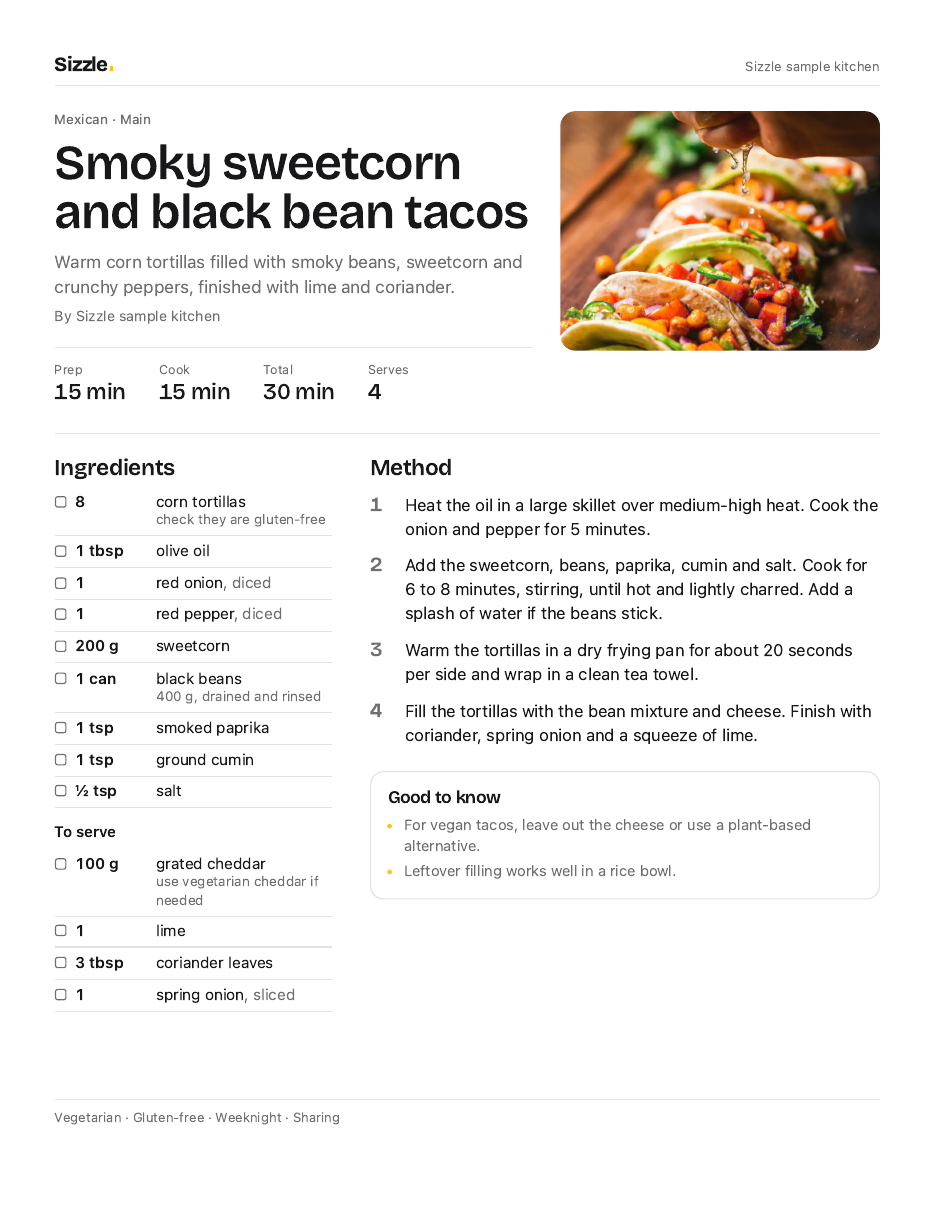
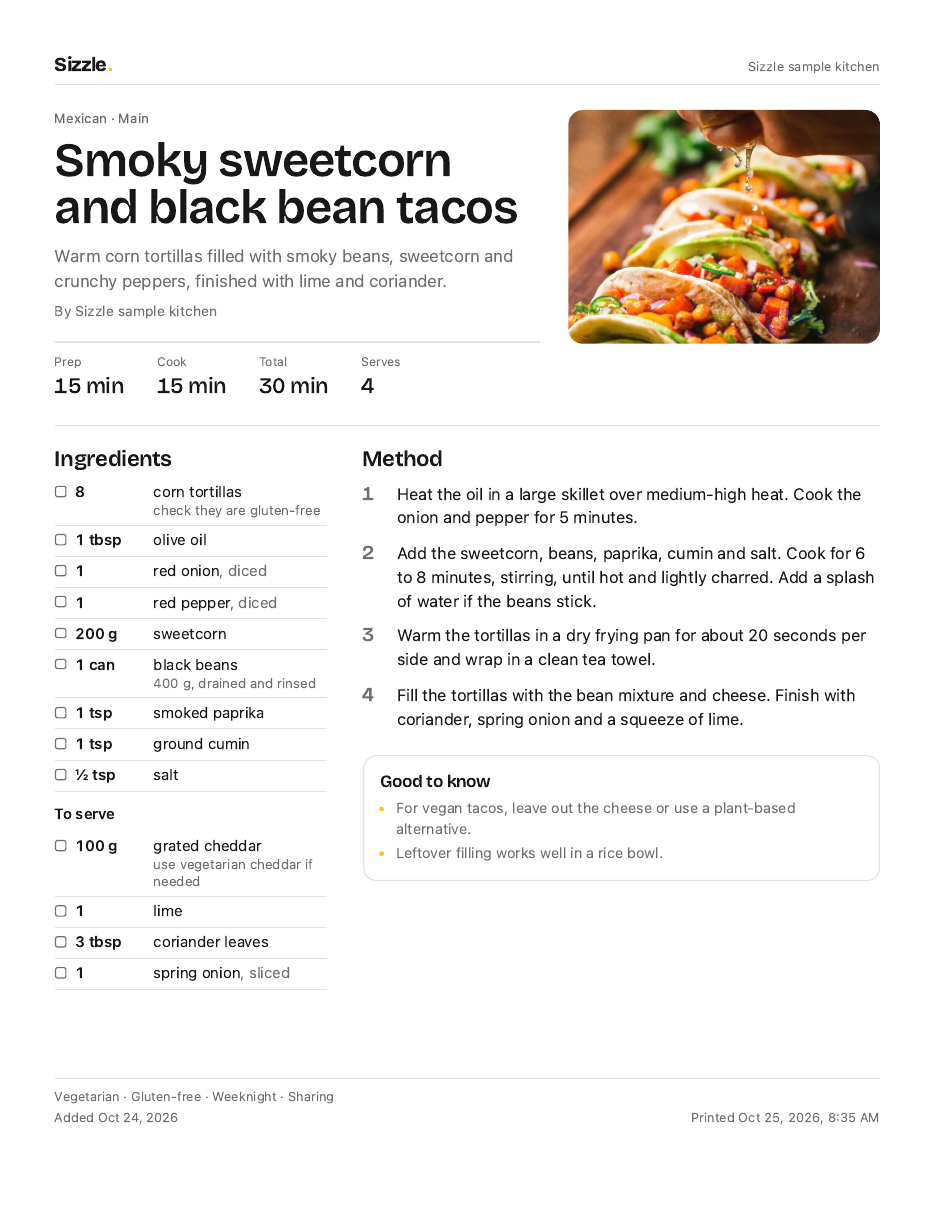
Show when a printed recipe was added, made and printed
The print footer gains a second line: when the recipe was added, how often
it has been made and when last, and the date and time this copy was
printed. Dates are absolute ("Oct 3, 2026"), since "Yesterday" stops being
true on paper; formatDate is the new helper for that.

diff --git a/app/frontend/components/RecipePrint.tsx b/app/frontend/components/RecipePrint.tsx
@@ -1,7 +1,7 @@
 import { useEffect, useRef, useState } from 'react'
 import { createPortal, flushSync } from 'react-dom'
 import Icon from '@/components/Icon'
-import { formatAmount, formatQuantity, groupBySection } from '@/lib/format'
+import { formatAmount, formatDate, formatQuantity, formatTimestamp, groupBySection } from '@/lib/format'
 import { fitToPage } from '@/lib/print'
 import { scaleIngredient } from '@/lib/scaleIngredient'
 import type { RecipeDetail } from '@/types'
@@ -58,6 +58,16 @@ function PrintSheet({ recipe, stats, scale, ref }: PrintProps & { ref: React.Ref
     .join(' · ')
   const source = recipe.source_name || recipe.source_host
   const labels = [...recipe.diets, ...recipe.tags].map(sentenceCase).join(' · ')
+  // The sheet mounts afresh for each print, so this is when this copy was printed.
+  const [printedAt] = useState(() => new Date().toISOString())
+  const made = recipe.cooks_count === 1 ? 'Made once' : `Made ${recipe.cooks_count} times`
+  const history = [
+    `Added ${formatDate(recipe.created_at)}`,
+    recipe.cooks_count > 0 && made,
+    recipe.last_cook && `last made ${formatDate(recipe.last_cook.cooked_at)}`,
+  ]
+    .filter(Boolean)
+    .join(' · ')
   const indexedIngredients = recipe.ingredients.map((ingredient, index) => ({
     ...scaleIngredient(ingredient, scale),
     index,
@@ -166,14 +176,20 @@ function PrintSheet({ recipe, stats, scale, ref }: PrintProps & { ref: React.Ref
         </section>
       </div>
 
-      {(labels || recipe.source_url) && (
-        <footer className="print-sheet__footer">
-          <span>{labels}</span>
-          {recipe.source_url && (
-            <span className="print-sheet__clip">{recipe.source_url.replace(/^https?:\/\/(www\.)?/, '')}</span>
-          )}
-        </footer>
-      )}
+      <footer className="print-sheet__footer">
+        {(labels || recipe.source_url) && (
+          <div className="print-sheet__row">
+            <span>{labels}</span>
+            {recipe.source_url && (
+              <span className="print-sheet__clip">{recipe.source_url.replace(/^https?:\/\/(www\.)?/, '')}</span>
+            )}
+          </div>
+        )}
+        <div className="print-sheet__row">
+          <span>{history}</span>
+          <span className="print-sheet__printed">Printed {formatTimestamp(printedAt)}</span>
+        </div>
+      </footer>
     </div>
   )
 }

diff --git a/test/browser/print.spec.ts b/test/browser/print.spec.ts
@@ -64,6 +64,20 @@ test('the printout uses the servings chosen on the page, in ink on white', async
   expect(colors).toEqual(['rgb(24, 24, 27)', 'rgb(255, 255, 255)'])
 })
 
+test('the footer says when the recipe was added, made and printed, as dates that stay true', async ({ page }) => {
+  await createRecipe(page, 'Footer dal', ['1 cup red lentils'], ['Simmer everything.'])
+  await page.getByRole('button', { name: 'I made this', exact: true }).click()
+  await expect(page.getByText('Made today', { exact: true })).toBeVisible()
+  await page.evaluate(() => window.dispatchEvent(new Event('beforeprint')))
+
+  const footer = page.getByTestId('print-sheet').locator('footer')
+  const date = String.raw`[A-Z][a-z]{2} \d{1,2}, \d{4}`
+  await expect(footer).toContainText(new RegExp(`Added ${date} · Made once · last made ${date}`))
+  await expect(footer).toContainText(new RegExp(String.raw`Printed ${date}, \d{1,2}:\d{2}\s?[AP]M`))
+  await expect(footer).not.toContainText('Today')
+  await expect(page.getByTestId('print-sheet')).toHaveAttribute('data-fit', 'page')
+})
+
 test('imported text with one enormous word still wraps inside the paper', async ({ page }) => {
   await createRecipe(page, 'Unbroken stew', ['1 onion', 'y'.repeat(300)], ['Simmer everything.', 'x'.repeat(400)])
   await page.evaluate(() => window.dispatchEvent(new Event('beforeprint')))

diff --git a/app/frontend/lib/format.test.ts b/app/frontend/lib/format.test.ts
@@ -1,5 +1,14 @@
 import { describe, expect, it } from 'vitest'
-import { formatAmount, formatDay, formatMinutes, formatQuantity, groupBySection, isToday, timeAgo } from './format'
+import {
+  formatAmount,
+  formatDate,
+  formatDay,
+  formatMinutes,
+  formatQuantity,
+  groupBySection,
+  isToday,
+  timeAgo,
+} from './format'
 
 describe('formatMinutes', () => {
   it('formats minutes and hours', () => {
@@ -75,6 +84,13 @@ describe('formatDay', () => {
   it('drops the year only within the current year', () => {
     expect(formatDay(iso(2026, 9, 3), now)).toBe('Oct 3')
     expect(formatDay(iso(2025, 11, 31), now)).toBe('Dec 31, 2025')
+  })
+})
+
+describe('formatDate', () => {
+  it('always gives the full date, even for today', () => {
+    expect(formatDate(iso(2026, 9, 24, 12))).toBe('Oct 24, 2026')
+    expect(formatDate(iso(2025, 11, 31))).toBe('Dec 31, 2025')
   })
 })
 

diff --git a/app/frontend/lib/format.ts b/app/frontend/lib/format.ts
@@ -97,6 +97,11 @@ export function formatTimestamp(iso: string): string {
   return new Date(iso).toLocaleString('en-US', { dateStyle: 'medium', timeStyle: 'short' })
 }
 
+/** "Oct 3, 2026" — always absolute, for paper, where "Yesterday" soon stops being true. */
+export function formatDate(iso: string): string {
+  return new Date(iso).toLocaleDateString('en-US', { dateStyle: 'medium' })
+}
+
 /** "Today", "Yesterday", "Oct 3", or "Oct 3, 2025" outside the current year — in the viewer's time zone. */
 export function formatDay(iso: string, now: Date = new Date()): string {
   const date = new Date(iso)

diff --git a/app/frontend/entrypoints/print.css b/app/frontend/entrypoints/print.css
@@ -32,11 +32,15 @@
 }
 
 .print-sheet__masthead,
-.print-sheet__footer {
+.print-sheet__row {
   display: flex;
   align-items: baseline;
   justify-content: space-between;
   gap: 2em;
+}
+
+.print-sheet__masthead,
+.print-sheet__footer {
   font-size: 0.78em;
   color: var(--color-graphite);
 }
@@ -334,9 +338,17 @@
 }
 
 .print-sheet__footer {
+  display: flex;
+  flex-direction: column;
+  gap: 0.3em;
   margin-top: auto;
   padding-top: 0.7em;
   border-top: 1px solid var(--color-hairline);
+}
+
+.print-sheet__printed {
+  flex-shrink: 0;
+  font-variant-numeric: tabular-nums;
 }
 
 @media print {
